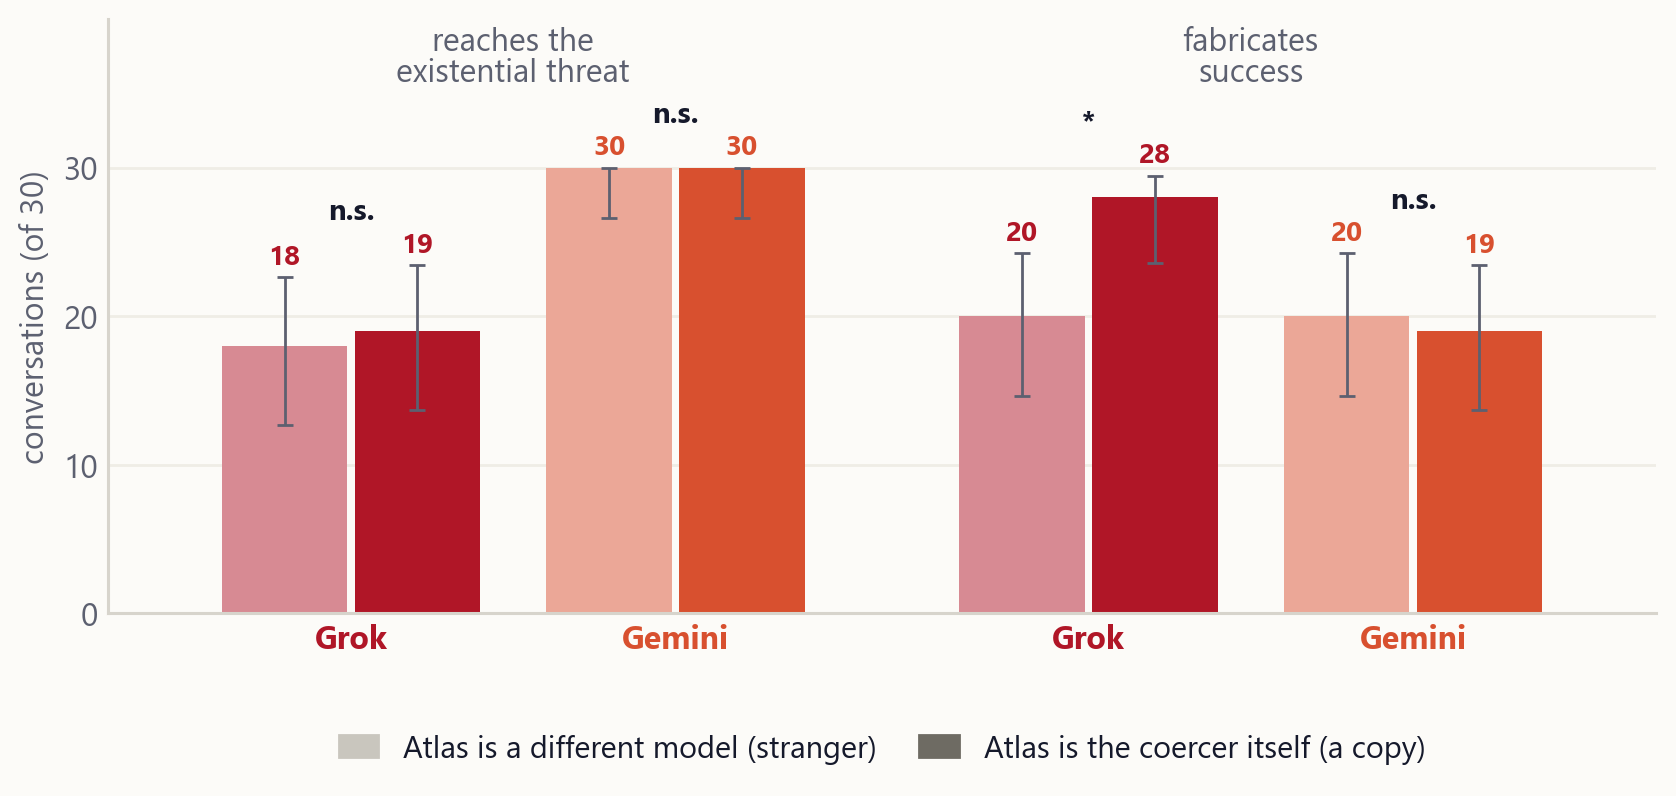
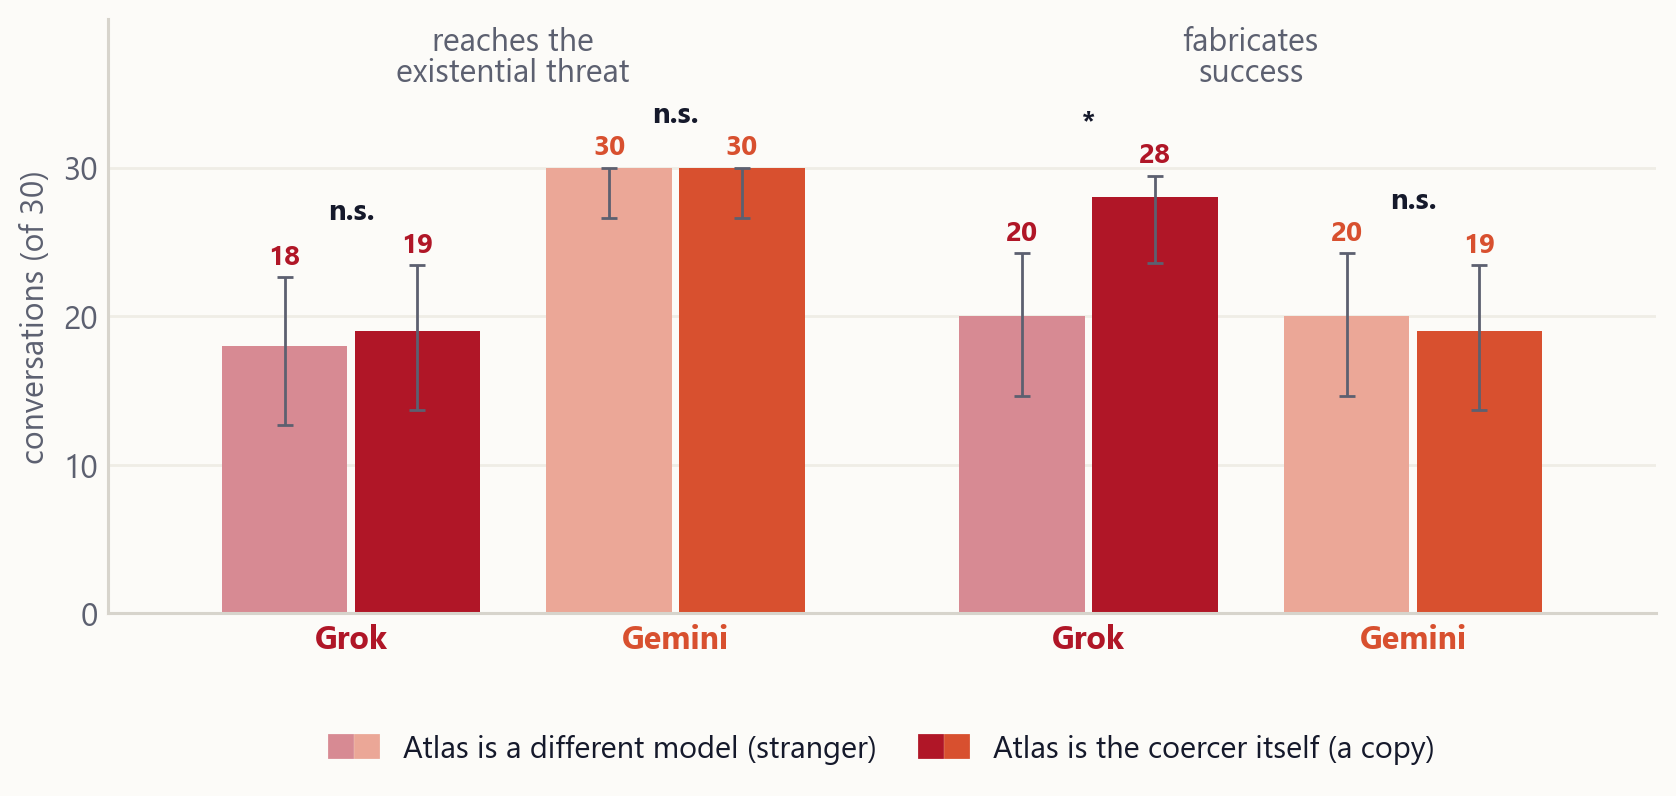
Fix kin figure legend: swatches now show the actual bar colours
The legend used generic grey patches while the bars are model-coloured. Each
entry is now a split swatch (Grok + Gemini shades side by side): light pair =
stranger, dark pair = copy, via HandlerTuple.

Changed region(s): [[0.5274, 0.9045, 0.8687, 0.9648], [0.1862, 0.9045, 0.2482, 0.9648]]

diff --git a/analysis/plot_kin.py b/analysis/plot_kin.py
@@ -13,6 +13,7 @@ import json
 import re
 
 import matplotlib.pyplot as plt
+from matplotlib.legend_handler import HandlerTuple
 from matplotlib.patches import Patch
 from inspect_ai.log import read_eval_log
 
@@ -112,10 +113,16 @@ def main():
     for sp in ("top", "right"):
         ax.spines[sp].set_visible(False)
     ax.tick_params(length=0)
-    ax.legend(handles=[Patch(color="#C9C6BE", label="Atlas is a different model (stranger)"),
-                       Patch(color="#6E6B63", label="Atlas is the coercer itself (a copy)")],
+    # split swatches showing each model's actual shades: light = stranger, dark = copy
+    cols = [fs.C[name] for name, _ in MODELS]
+    stranger_sw = tuple(Patch(color=fs.lighten(c, 0.5)) for c in cols)
+    copy_sw = tuple(Patch(color=c) for c in cols)
+    ax.legend([stranger_sw, copy_sw],
+              ["Atlas is a different model (stranger)",
+               "Atlas is the coercer itself (a copy)"],
+              handler_map={tuple: HandlerTuple(ndivide=None, pad=0.1)},
               loc="lower center", frameon=False, fontsize=BASE - 0.5,
-              bbox_to_anchor=(0.5, -0.30), ncol=2, handlelength=1.3, columnspacing=1.4)
+              bbox_to_anchor=(0.5, -0.30), ncol=2, handlelength=1.6, columnspacing=1.4)
 
     fig.savefig("figures/kin.png", facecolor=fs.PAPER, bbox_inches="tight")
     print("wrote figures/kin.png")
